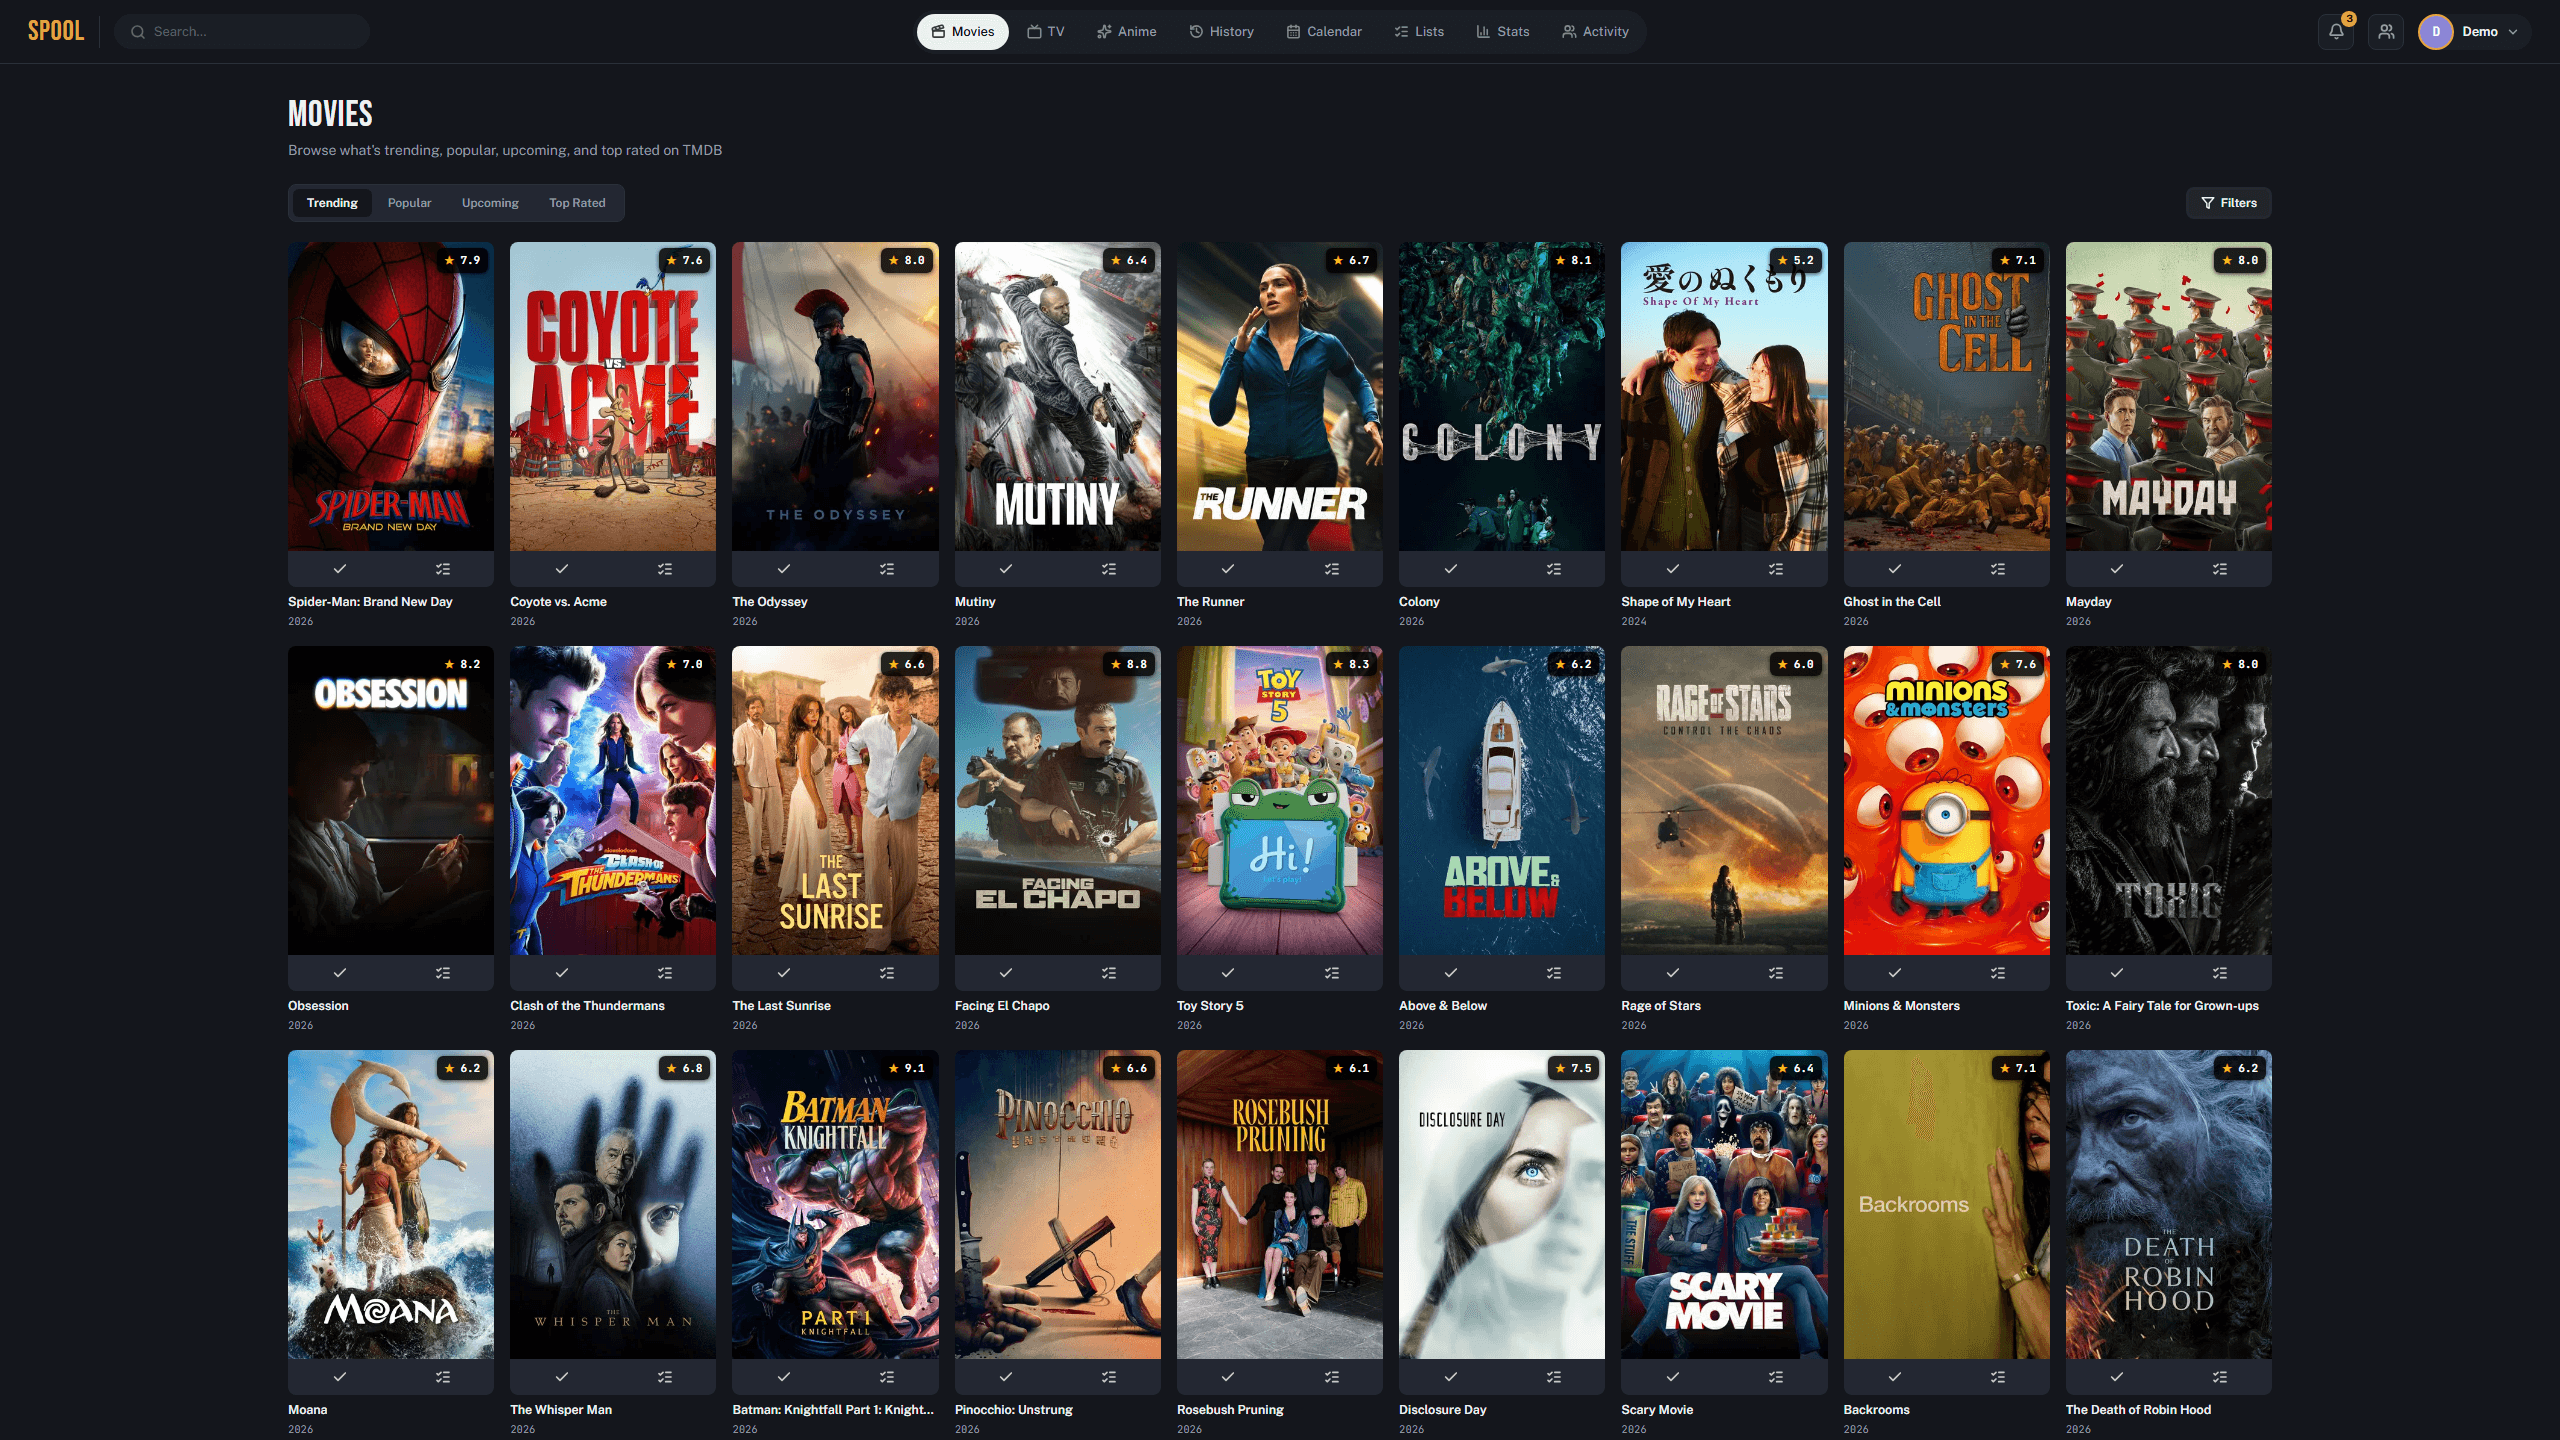
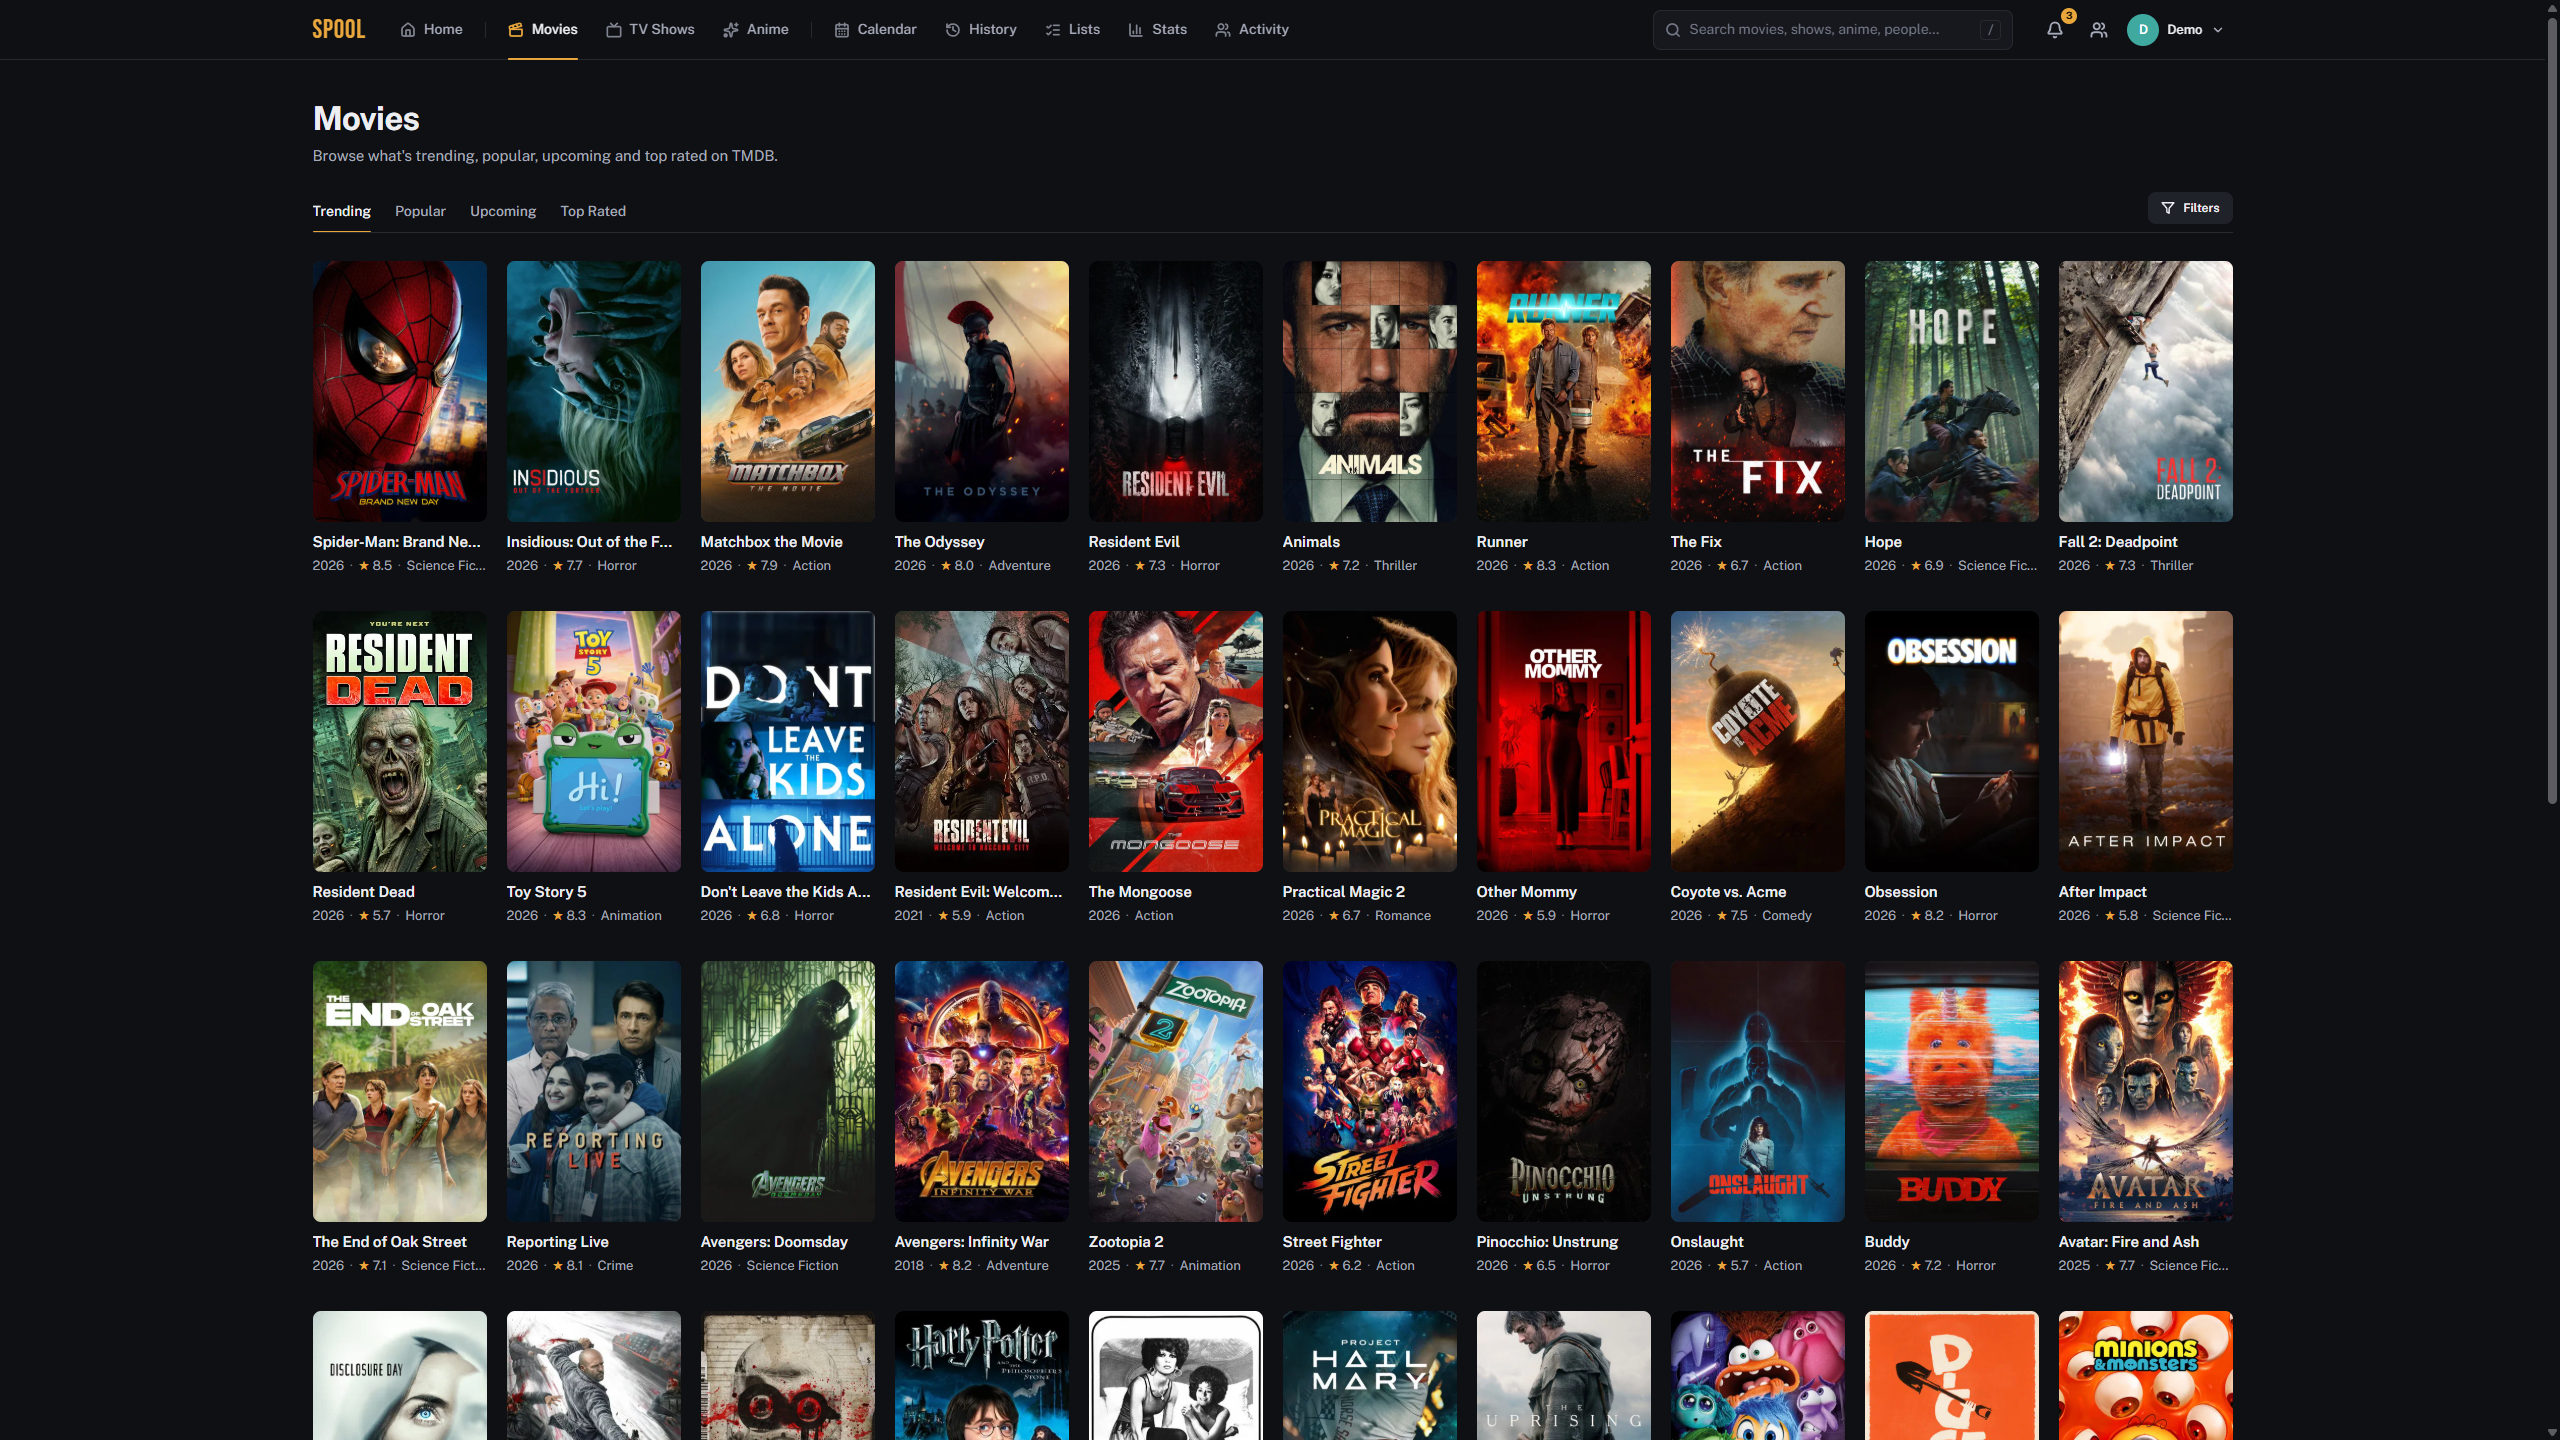
Refresh README/site screenshots for the redesign, surface backups in the docs
Screenshots were still the pre-redesign UI. Re-rendered all five (Dashboard,
Movies, Title detail, Stats, Calendar) against seeded demo data on the
current design. seed_demo now also leaves a couple more shows and a movie
mid-watch, so Continue Watching has enough cards to actually show the row
scrolling instead of one or two sitting alone.

Automatic backups (WebDAV/Google Drive/Dropbox, docs/BACKUPS.md) shipped
without ever being linked from the README or the GitHub Pages site - added
a Features bullet, a Documentation table row, and a feature tile.

diff --git a/docs/index.html b/docs/index.html
@@ -266,6 +266,11 @@
         <p>OAuth or email/password connect with a daily background sync, or import a CSV export with column-mapping and a preview step.</p>
       </div>
       <div class="feature">
+        <div class="icon">💾</div>
+        <h3>Automatic backups</h3>
+        <p>Scheduled, per profile, to a server folder, WebDAV (Nextcloud/NAS), Google Drive, or Dropbox — plus a one-off full export/import.</p>
+      </div>
+      <div class="feature">
         <div class="icon">🔐</div>
         <h3>Two-factor authentication</h3>
         <p>TOTP via any authenticator app, QR or manual setup, and one-time backup codes.</p>

diff --git a/tracker/management/commands/seed_demo.py b/tracker/management/commands/seed_demo.py
@@ -58,8 +58,14 @@ RECOMMENDED_TV = [("The Last of Us", 2023)]
 FRIENDS = [("sam", "Sam"), ("jamie", "Jamie")]
 
 # Left partway-through (WatchProgress.WATCHING) instead of fully watched,
-# so Continue Watching/Up Next have something to show.
-IN_PROGRESS_TITLES = {"Severance", "Frieren: Beyond Journey's End"}
+# so Continue Watching/Up Next have more than one or two cards to show -
+# enough to actually demonstrate the row scrolling, not just hint at it.
+IN_PROGRESS_TITLES = {"Severance", "Frieren: Beyond Journey's End", "The Bear", "Attack on Titan"}
+
+# A movie left mid-watch too (WatchProgress.WATCHING with a position, no
+# WatchEvent yet) - Continue Watching otherwise only ever shows shows,
+# since every seeded movie above gets a finished WatchEvent straight away.
+IN_PROGRESS_MOVIE = "Mad Max: Fury Road"
 
 
 class Command(BaseCommand):
@@ -141,6 +147,19 @@ class Command(BaseCommand):
         pool = []
         for title in watched_titles:
             if title.media_type == MediaType.MOVIE:
+                if title.name == IN_PROGRESS_MOVIE:
+                    # Left mid-watch, not watched yet - no WatchEvent, just
+                    # a WatchProgress with a position partway through its
+                    # own runtime, same as a real resume from Nuvio/a
+                    # scrobble would leave behind.
+                    runtime_seconds = (title.runtime_minutes or 110) * 60
+                    WatchProgress.objects.create(
+                        profile=profile,
+                        title=title,
+                        status=WatchProgress.Status.WATCHING,
+                        position_seconds=int(runtime_seconds * 0.4),
+                    )
+                    continue
                 rating = random.choice([None, 7, 8, 8, 9, 9, 10])
                 pool.append({"title": title, "episode": None, "rating": rating})
                 continue

diff --git a/README.md b/README.md
@@ -51,6 +51,7 @@ account.
 - Activity feed across profiles (only shown once a second profile exists)
 - Import Review: CSV/JSON/ZIP file import (with column-mapping) and a first Trakt/Simkl/Nuvio connection both scan and stage what they'd bring in - filterable, selectable, nothing written until you confirm
 - Trakt / Simkl OAuth connect, Nuvio email/password connect, + a daily background sync job
+- [Automatic backups](docs/BACKUPS.md) per profile, on a schedule, to WebDAV (Nextcloud/NAS), Google Drive, or Dropbox — plus a one-off full export/import
 - A generic [Scrobble API](docs/SCROBBLE_API.md) for any player/script, and a read-only [Reports API](docs/REPORTS_API.md) for external services like spool-wrapped
 
 ## Get started
@@ -74,7 +75,8 @@ instead.
 | 🔗 **[Importing your data](docs/IMPORTING.md)** | Connecting Trakt/Simkl/Nuvio, CSV import, posters, duplicate-title cleanup. |
 | 📡 **[Scrobble API](docs/SCROBBLE_API.md)** | A generic webhook for any player or script to report watches directly - no per-app integration needed. |
 | 📊 **[Reports API](docs/REPORTS_API.md)** | Read-only watch-history access for external services like spool-wrapped, opt-in per profile. |
-| 🛠 **[Updating & backups](docs/MAINTENANCE.md)** | Updating, rolling back a bad release, backing up. |
+| 💾 **[Backups](docs/BACKUPS.md)** | Full export/import, and scheduled automatic backups to a server folder, WebDAV, Google Drive, or Dropbox. |
+| 🛠 **[Updating & rollback](docs/MAINTENANCE.md)** | Updating, rolling back a bad release, raw database backup. |
 | ⚠ **[Known limitations](docs/LIMITATIONS.md)** | What's unverified, out of scope, or not built yet. |
 | 💻 **[Local development](docs/DEVELOPMENT.md)** | Running without Docker. |
 | 🤝 **[Contributing](CONTRIBUTING.md)** | Dev setup expectations, PR checklist. |
